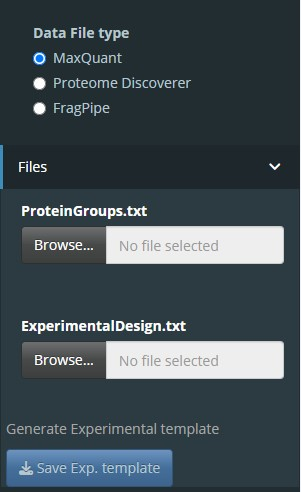
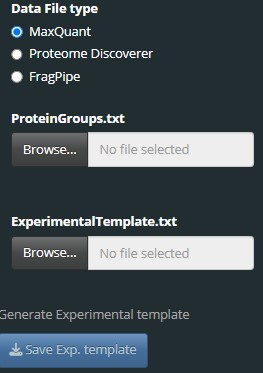
Updated Instructions

diff --git a/app/www/index.html b/app/www/index.html
@@ -24,6 +24,7 @@
 	.text {
 	font-size: 15px;
 	padding-left: 20px;
+	padding-right: 20px;
 	h3{font-weight: bold;}
 	}
 	
@@ -190,17 +191,21 @@
 		<h3><FONT COLOR="#2297E6">Correlation Plots</h3>
 		<div class="flex-container">
 			<div class="image">
-				<img src="PCA.jpg" width=200px>
+				<img src="PCA.jpg" width=250px>
 			</div>
 			<div class="text">
 			<h3><FONT COLOR="#000000">PCA</h3>
-				<p>The Principle Component Analysis plot shows similarities between groups of samples in a data set. Each point on a PCA plot represents a correlation between an initial variable and the first and second principal components. Ideally the points should be grouped together for each of the conditions (as shown), rather than grouped by replicate, or grouped randomly. The plot can be saved as a pdf file and resized using the "PDF Width" and "PDF Height" buttons. The values used to generate the plot can also be downloaded for plotting in another application using the "Save Values" button. If two datasets are loaded a second PCA plot will be available. </p>
+				<p>The Principle Component Analysis plot shows similarities between groups of samples in a data set. Each point on a PCA plot represents a correlation between an initial variable and the first and second principal components. Ideally the points should be grouped together for each of the conditions (as shown), rather than grouped by replicate, or grouped randomly. The plot can be saved as a pdf file and resized using the "PDF Width" and "PDF Height" buttons. The values used to generate the plot can also be downloaded for plotting in another application using the "Save Values" button. If two datasets are loaded a second PCA plot will be available.  It is also possible to split the PCA plots into groups, groups can be assigned in the ExperimentalTemplate.txt file using the "condition_type" column. By default the plots show the Principle Component values with the most variation (PC1 and PC2), other Principle Component values can be plotted on the X or Y axis using the numeric value boxes above the plot.  To see what percentage of the total variance the other components have, use the "PCA Scree Plot" in the adjacent tab.</p>
 			</div>
+			<div class="image">
+				<img src="PCA_2.jpg" width=500px>
+			</div>
+
 		</div>
 
 		<div class="flex-container">
 			<div class="image">
-				<img src="correlation.jpg" width=200px>
+				<img src="correlation.jpg" width=250px>
 			</div>
 			<div class="text">
 			<h3><FONT COLOR="#000000">Correlation</h3>
@@ -210,7 +215,7 @@
 			
 		<div class="flex-container">
 			<div class="image">
-				<img src="frequency.jpg" width=200px>
+				<img src="frequency.jpg" width=250px>
 			</div>
 			<div class="text">
 				<h3><FONT COLOR="#000000">Frequency Plot</h3>
@@ -285,7 +290,7 @@
 				<h3><FONT COLOR="#000000">Cluster Heatmap</h3>
 				<p>Each individual cluster can be rendered as a heatmap by selecting the "Cluster" tab on the right hand side. The cluster heatmap to be displayed can be selected using the "Cluster No." input box. The resulting heatmap is rendered with a top annotation using fold change data from the protein displayed in that cluster only. The colour scheme of the heatmap will match the initial complex heatmap.  </p>
 				<p>The cluster heatmap can be saved as a pdf file and resized using the adjacent "PDF Width" and "PDF Height" buttons. </p>
-				<p><strong>Cluster table</strong> The Gene symbol name, protein name and Uniprot ID for each of the protein in the chaosen cluster is displayed at the right hand side of the cluster heatmap. This can be downloaded using the "Save Cluster Table" button.  </p>
+				<p><strong>Cluster table</strong> The Gene symbol name, protein name and Uniprot ID for each of the protein in the chosen cluster is displayed at the right hand side of the cluster heatmap. This can be downloaded using the "Save Cluster Table" button.  </p>
 				<p>A table containing all the significant proteins and the specific cluster they are found can be downloaded using the "Save All Clusters" button. </p>
 			</div>
 		</div>
@@ -295,9 +300,14 @@
 			</div>
 			<div class="text">
 				<h3><FONT COLOR="#000000">Enhanced Volcano</h3>
-				<p>Enhanced volcano plots can be generated for all the comparisons chosen. These plots show the positions on the volcano plot for the significant protein list only. The colour of the points is dependent on the cluster group it belongs to. The colour scheme will also match the palette chosen in the complex heatmap.</p>
+				<p>Enhanced volcano plots can be generated for all the comparisons chosen. By default these plots show the positions on the volcano plot for the significant protein list only. The colour of the points is dependent on the cluster group it belongs to. The colour scheme will also match the palette chosen in the complex heatmap.</p>
+				<p>The enhanced volcano plots can be further customised to show the names of selected proteins only using the "Selected Names only " check box. You can search for the required names from the significant protein list in the table below, it is also possible to search by cluster number, use shift+click to select multiple entries. To show the data points for all the proteins uncheck the "Significant proteins only" check box, the non-significant proteins will be indicated in grey. The customised options selected in the left hand volcano plot will be carried over to the report, to allow easier generation of multiple plots.</p>
 				<p>The enhanced volcano plot can be saved as a pdf file and resized using the adjacent "PDF Width" and "PDF Height" buttons.</p>
 			</div>
+			<div class="image">
+				<img src="enh_volcano_2.jpg" width=300px>
+			</div>
+
 		</div>
 		<div class="flex-container">
 			<div class="image">
